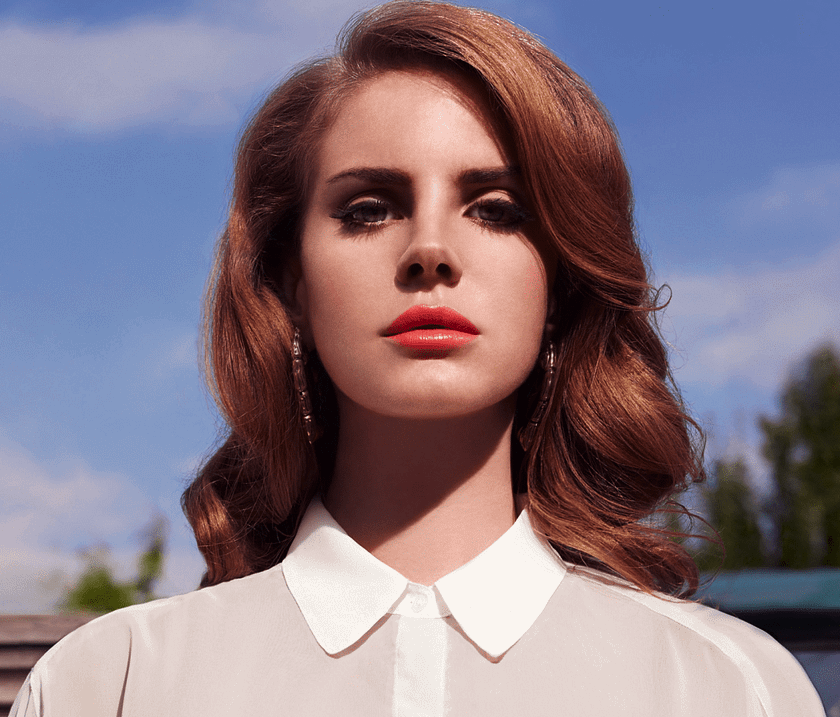
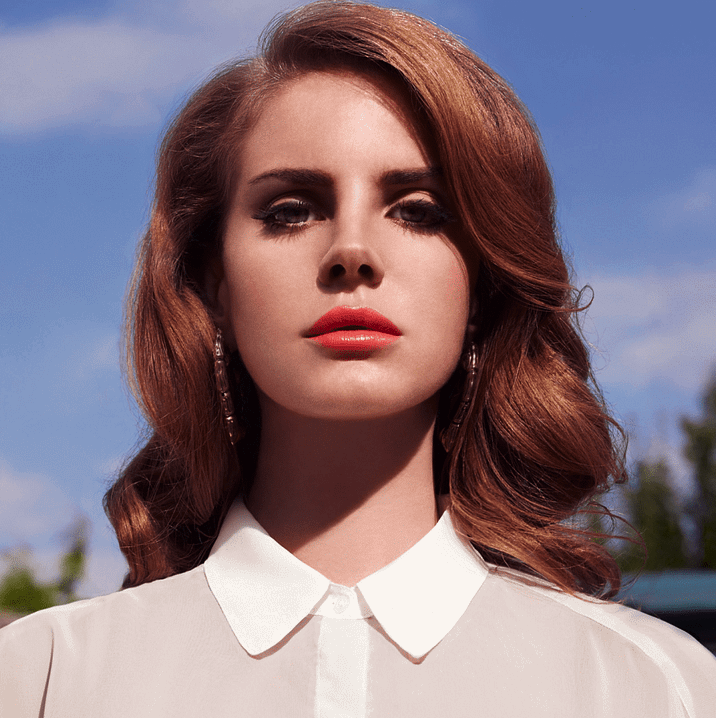
add pictures to webpage and edit LDR and TS pic to squarish shape

diff --git a/index.html b/index.html
@@ -101,7 +101,11 @@
       </div>
 
       <!--Insert picture here-->
-      <div></div>
+      <div class="img_display">
+        <img src="img/DA.jpg" alt="David Archuleta" />
+        <img src="img/LDR.png" alt="Lana Del Rey" />
+        <img src="img/TS.jpg" alt="Taylor Swift" />
+      </div>
 
       <div class="left">
         Here are some of my favourite TV shows and movies:
@@ -116,6 +120,11 @@
       </div>
 
       <!--Insert picture here -->
+      <div class="img_display">
+        <img src="img/HSM.webp" alt="High School Musical" />
+        <img src="img/HP.webp" alt="Harry Potter" />
+        <img src="img/OMIB.jpg" alt="Only Murders in The Building" />
+      </div>
     </main>
 
     <footer>

diff --git a/style.css b/style.css
@@ -37,6 +37,7 @@ body {
 
 #banner {
   width: 100%;
+  border-radius: 0px;
 }
 
 h1 {
@@ -60,6 +61,20 @@ main {
   margin-bottom: 2em;
   display: flex;
   flex-direction: column;
+}
+
+.img_display {
+  display: flex;
+  flex-direction: row;
+  align-items: center;
+  justify-content: space-evenly;
+  padding-top: 2em;
+  padding-bottom: 2em;
+}
+
+img {
+  width: 20%;
+  border-radius: 4%;
 }
 
 footer {
